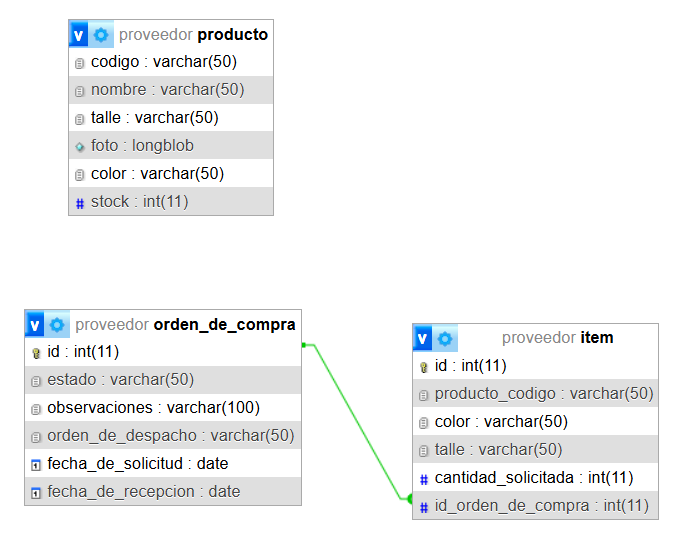
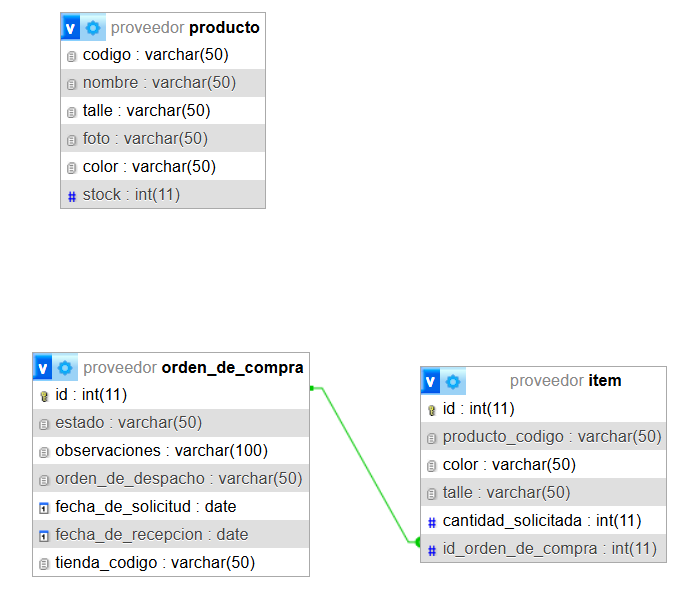
Punto 1 hecho

diff --git a/Servidor/servidor.js b/Servidor/servidor.js
@@ -1,17 +1,18 @@
 const express = require('express') 
-const { Kafka } = require('kafkajs')
+const { Kafka } = require('kafkajs');
 const conexionDataBase = require('./conexionDataBase.js');
 
-const app = express()          
-
-app.use(express.json()); // Middleware para parsear los datos que me llegan de las solicitudes a JSON
+const app = express()    
 
 const kafka = new Kafka({ // Conexión con kafka
     clientId: 'my-app',
     brokers: ['localhost:9092']
 })
 
-const producer = kafka.producer(); // Creo un productor
+/**************************** MIDDLEWARE *********************************/
+app.use(express.json()); // Middleware para parsear los datos que me llegan de las solicitudes a JSON
+
+app.use('/ordenesDeCompra', require('./Rutas/ordenesDeCompra') );
 
 /**************************** RUTAS *****************************/
 
@@ -23,81 +24,62 @@ app.get('/', function(req, res) {  // La ruta '/' ejecutara la función que le p
 })
 
 
-app.post('/altaOrdenDeCompra', async (req, res) => { 
 
-    // Los datos que me llegan de la solicitud/request
-    var observaciones = req.body.observaciones ? req.body.observaciones : 'Sin observaciones';
-    var tienda_codigo = req.body.tienda_codigo;
-    var items         = req.body.items.slice();
+const consumidorOrdenesDeCompra = kafka.consumer({ groupId: 'consumidorOrdenesDeCompra' }); // Creo un consumidor. Le indico a que grupo de consumidores pertenece.
 
-
-    // Obtener la fecha actual
-    var fechaActual = new Date();
+(async function() {
     
-    var anio = fechaActual.getFullYear();
-    var mes = String(fechaActual.getMonth() + 1).padStart(2, '0'); // Los meses empiezan en 0
-    var dia = String(fechaActual.getDate() ).padStart(2, '0');     // padStart() rellena un string con otro hasta que alcance cierta longitud (sirve para cuando el dia o el mes es de un solo digito)
-    
-    var fechaFormateada = `${anio}-${mes}-${dia}`;
+    await consumidorOrdenesDeCompra.connect();  // El consumidor se conecta
+    await consumidorOrdenesDeCompra.subscribe({ topic: 'orden-de-compra', fromBeginning: false }); // El consumidor se suscribe al topic y se queda esperando por mensajes nuevos. Si no existe el topic, lo crea.
 
+    await consumidorOrdenesDeCompra.run({
+        eachMessage: async ({ topic, partition, message }) => { // Indica que acción debe hacer el consumidor para cada mensaje que le llegue
+           
+            var mensajeParseado = JSON.parse(message.value.toString() ); // Parseo el string JSON que viene del topic
+            
+            var idOrdenDeCompra = mensajeParseado.idOrdenDeCompra;
+            console.log("Leyendo orden de compra: " + idOrdenDeCompra);
+           
+            // VERIFICACIÓN PARA SABER SI producto_codigo EXISTE EN LA TABLA producto
+            var itemsSolicitados = mensajeParseado.itemsSolicitados.slice();  // slice() copia un arreglo
+            console.log(itemsSolicitados);
 
-    // Carga a la base de datos
-    await conexionDataBase.query(`INSERT INTO orden_de_compra 
-        SET estado = 'SOLICITADA', 
-        observaciones = '${observaciones}', 
-        fecha_de_solicitud = '${fechaFormateada}',
-        tienda_codigo = '${tienda_codigo}' `, {});
+            for(var i = 0; i < itemsSolicitados.length; i++) // Reviso el codigo de cada uno de los productos del arreglo de items
+            {
+                var resultadosConsulta = await conexionDataBase.query(`SELECT EXISTS (SELECT codigo FROM producto WHERE codigo = '${itemsSolicitados[i].producto_codigo}') AS existe `, {})
+                var existeProducto = resultadosConsulta[0].existe;
 
-    
-    var resultadosConsulta = await conexionDataBase.query(`SELECT MAX(id) AS id FROM orden_de_compra `, {}); 
-    // Otra forma de obtener el último id: SELECT LAST_INSERT_ID()
-    var IdUltimaOrdenDeCompra = resultadosConsulta[0].id;
+                if(!existeProducto)
+                {
+                    console.log(`No existe el producto ${itemsSolicitados[i].producto_codigo}`);
+                }
 
-    for (let item of items) 
-    {
-        await conexionDataBase.query(`INSERT INTO item 
-            SET producto_codigo = '${item.producto_codigo}', 
-            color = '${item.color}', 
-            talle = '${item.talle}', 
-            cantidad_solicitada = ${item.cantidad_solicitada}, 
-            id_orden_de_compra = ${IdUltimaOrdenDeCompra} `, {});
-    }
+                // VERIFICACIÓN PARA SABER SI cantidad_solicitada ES MENOR A 1
+                var cantidad_solicitada = itemsSolicitados[i].cantidad_solicitada;
+                if(cantidad_solicitada < 1)
+                {
+                    console.log(`La cantidad solicitada para el producto ${itemsSolicitados[i].producto_codigo} es menor a 1`);
+                }
 
-    console.log("Se hizo el alta de la orden de compra con los siguientes datos: ");
-    console.log(req.body);
+                /*
+                // EN CASO DE ERROR, SE ENVIA UN MENSAJE AL TOPIC {codigo de tienda}/solicitudes con el estado RECHAZADA y en observaciones con el error/es encontrado
+                if(!existeProducto || cantidad_solicitada < 1)
+                {
 
-       
-    // Carga al topic
-    await producer.connect(); // El productor se conecta
+                }
+                */
+            }
+            
+            
+            
 
-    await producer.send({  // El productor envia uno o varios mensajes al topic indicado. Si no existe el topic, lo crea.
-        topic: 'orden-de-compra',
-        messages: [
-          { value: JSON.stringify({ tienda_codigo: `${tienda_codigo}`, idOrdenDeCompra: IdUltimaOrdenDeCompra, itemsSolicitados: items, fechaSolicitud: fechaFormateada}) }, // Envio el mensaje en json
-        ],
-    });
+            
 
-    await producer.disconnect() // El productor se desconecta
-    
+            
+        },
+    })
 
-    res.sendStatus(200);
-})
-
-
-const consumer = kafka.consumer({ groupId: 'grupoConsumidor-1' }); // Creo un consumidor. Le indico a que grupo de consumidores pertenece.
-
-await consumer.connect();  // El consumidor se conecta
-await consumer.subscribe({ topic: 'topic-1', fromBeginning: true }); // El consumidor se suscribe al topic y se queda esperando por mensajes nuevos. Si no existe el topic, lo crea.
-
-await consumer.run({
-    eachMessage: async ({ topic, partition, message }) => { // Indica que acción debe hacer el consumidor para cada mensaje que le llegue
-      console.log({
-        partition,
-        offset: message.offset,
-        value: JSON.parse(message.value.toString() ), // Leo el json
-      })
-    },
-})
+})();
 
 /*************************** ARRANQUE SERVIDOR ********************************/
 

diff --git a/Servidor/Rutas/ordenesDeCompra.js b/Servidor/Rutas/ordenesDeCompra.js
@@ -1,0 +1,76 @@
+var express = require('express');
+var router  = express.Router();
+
+const conexionDataBase = require('../conexionDataBase.js');
+const { Kafka } = require('kafkajs');
+
+const kafka = new Kafka({ // Conexión con kafka
+    clientId: 'my-app',
+    brokers: ['localhost:9092']
+})
+
+const producer = kafka.producer(); // Creo un productor
+
+router.post('/alta', async (req, res) => { 
+
+    // Los datos que me llegan de la solicitud/request
+    var observaciones = req.body.observaciones ? req.body.observaciones : 'Sin observaciones';
+    var tienda_codigo = req.body.tienda_codigo;
+    var items         = req.body.items.slice(); // slice() copia un arreglo
+
+
+    // Obtener la fecha actual
+    var fechaActual = new Date();
+    
+    var anio = fechaActual.getFullYear();
+    var mes = String(fechaActual.getMonth() + 1).padStart(2, '0'); // Los meses empiezan en 0
+    var dia = String(fechaActual.getDate() ).padStart(2, '0');     // padStart() rellena un string con otro hasta que alcance cierta longitud (sirve para cuando el dia o el mes es de un solo digito)
+    
+    var fechaFormateada = `${anio}-${mes}-${dia}`;
+
+
+    // Carga a la base de datos
+    await conexionDataBase.query(`INSERT INTO orden_de_compra 
+        SET estado = 'SOLICITADA', 
+        observaciones = '${observaciones}', 
+        fecha_de_solicitud = '${fechaFormateada}',
+        tienda_codigo = '${tienda_codigo}' `, {});
+
+    
+    var resultadosConsulta = await conexionDataBase.query(`SELECT MAX(id) AS id FROM orden_de_compra `, {}); 
+    // Otra forma de obtener el último id: SELECT LAST_INSERT_ID()
+    var IdUltimaOrdenDeCompra = resultadosConsulta[0].id;
+
+    for (let item of items) 
+    {
+        await conexionDataBase.query(`INSERT INTO item 
+            SET producto_codigo = '${item.producto_codigo}', 
+            color = '${item.color}', 
+            talle = '${item.talle}', 
+            cantidad_solicitada = ${item.cantidad_solicitada}, 
+            id_orden_de_compra = ${IdUltimaOrdenDeCompra} `, {});
+    }
+
+    console.log("Se hizo el alta de la orden de compra con los siguientes datos: ");
+    //console.log(req.body);
+
+       
+    // Carga al topic
+    
+    await producer.connect(); // El productor se conecta
+
+    await producer.send({  // El productor envia uno o varios mensajes al topic indicado. Si no existe el topic, lo crea.
+        topic: 'orden-de-compra',
+        messages: [
+          { value: JSON.stringify({ tienda_codigo: `${tienda_codigo}`, idOrdenDeCompra: IdUltimaOrdenDeCompra, itemsSolicitados: items, fechaSolicitud: fechaFormateada}) }, // Envio el mensaje en json
+        ],
+    });
+
+    await producer.disconnect() // El productor se desconecta
+    
+
+    res.sendStatus(200);
+})
+
+
+module.exports = router;

diff --git a/Pruebas/cargarDatosDePrueba.js b/Pruebas/cargarDatosDePrueba.js
@@ -1,0 +1,43 @@
+/************************************ CONFIGURACIÓN DE LA BASE DE DATOS **********************************/
+const conexionDataBase = require('../Servidor/conexionDataBase.js');
+
+/************************************ FUNCION DE CARGA DE DATOS **********************************/
+async function cargarProducto(registro)
+{
+    var resultadoProducto = await conexionDataBase.query('SELECT EXISTS(SELECT codigo from producto where codigo = ?) AS existe', [registro.codigo]);
+    var existeProducto = resultadoProducto[0].existe;
+
+    if (existeProducto) console.log('ERROR: Ya existe el producto ' + registro.codigo);
+    else 
+    {
+        try
+        {
+            await conexionDataBase.query(
+                'INSERT INTO producto (codigo, nombre, talle, foto, color, stock) VALUES (?, ?, ?, ?, ?, ?)',
+                [registro.codigo, registro.nombre, registro.talle, registro.foto, registro.color, registro.stock]
+            );
+            console.log('Se cargo el producto: ' + registro.codigo);
+        } 
+        catch(error) {console.log(error);}
+    };
+    
+}
+
+/************************** DATOS HARDCODEADOS PARA REALIZAR PRUEBAS ****************************/ 
+async function cargaDatosDePrueba()
+{
+    console.log('Cargando datos de prueba a la base de datos: proveedor');
+
+    const productos = [
+        {nombre: 'Camisa Básica',    codigo: 'CB123', talle: 'M',  foto: 'urlFoto', color: 'Rojo',    stock: 10},
+        {nombre: 'Pantalones Jeans', codigo: 'PJ456', talle: 'L',  foto: 'urlFoto', color: 'Azul',    stock: 8},
+        {nombre: 'Campera',          codigo: 'AAAAA', talle: 'XL', foto: 'urlFoto', color: 'Gris',    stock: 3},
+        {nombre: 'Gorra',            codigo: 'BBBBB', talle: 'S',  foto: 'urlFoto', color: 'Naranja', stock:0}  
+    ]
+
+    for (const producto of productos) {
+        await cargarProducto(producto);
+    }
+}
+
+cargaDatosDePrueba();
